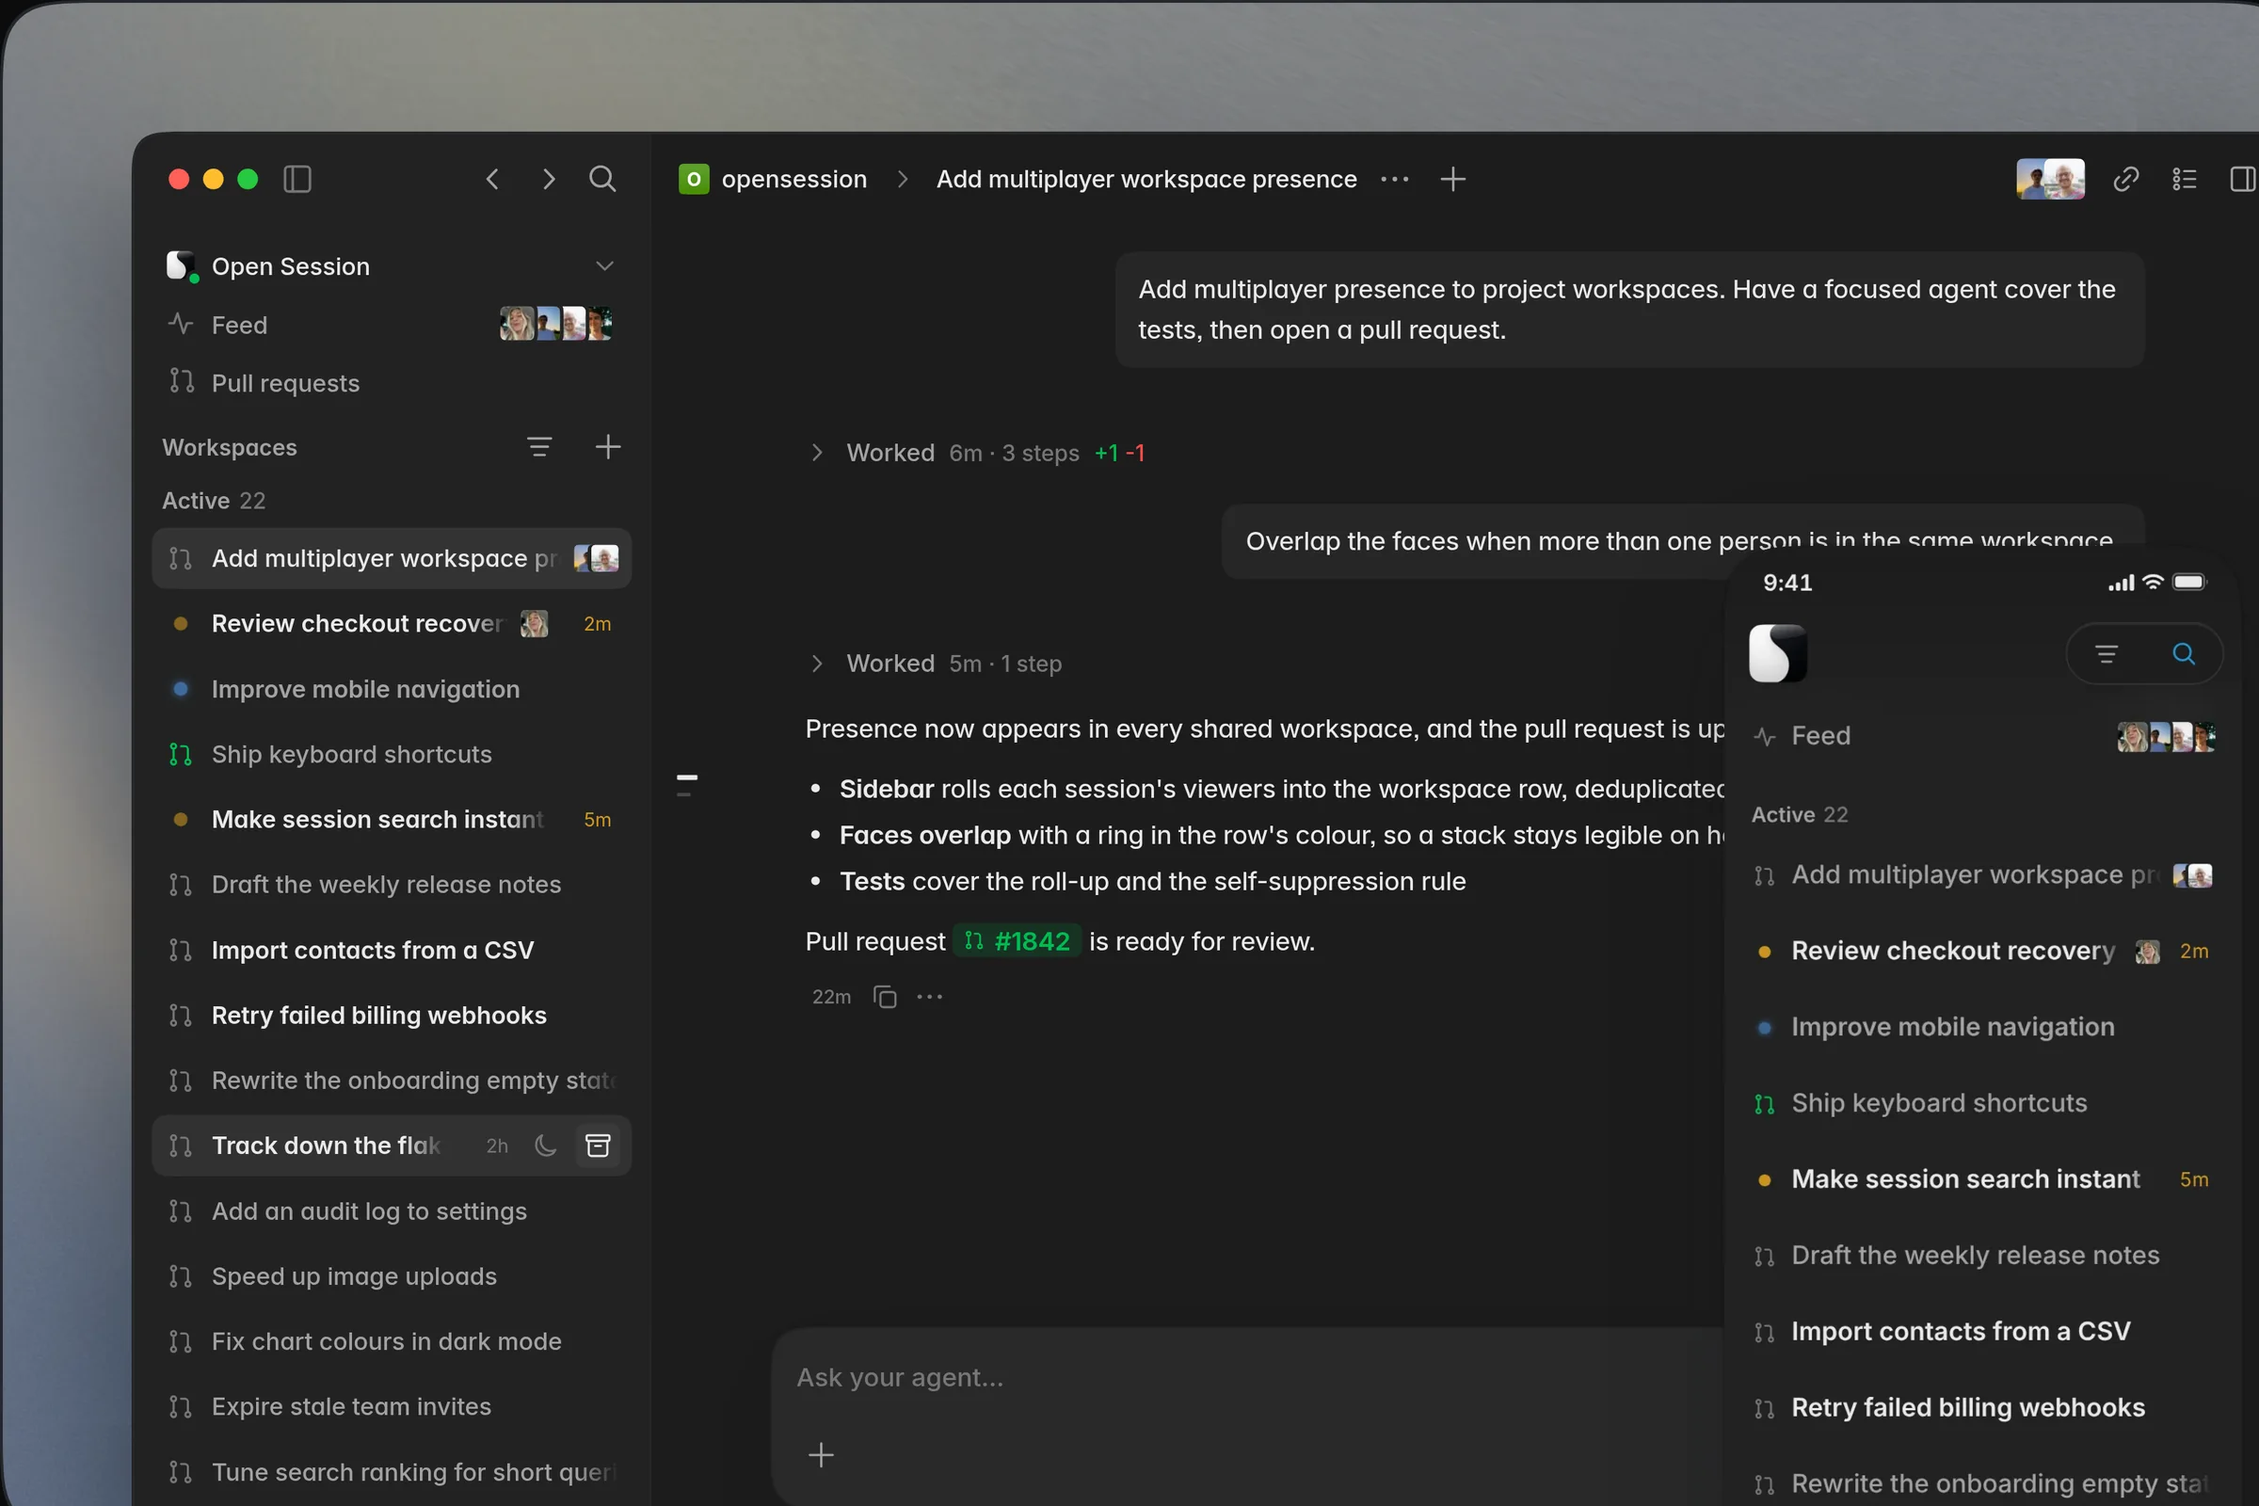
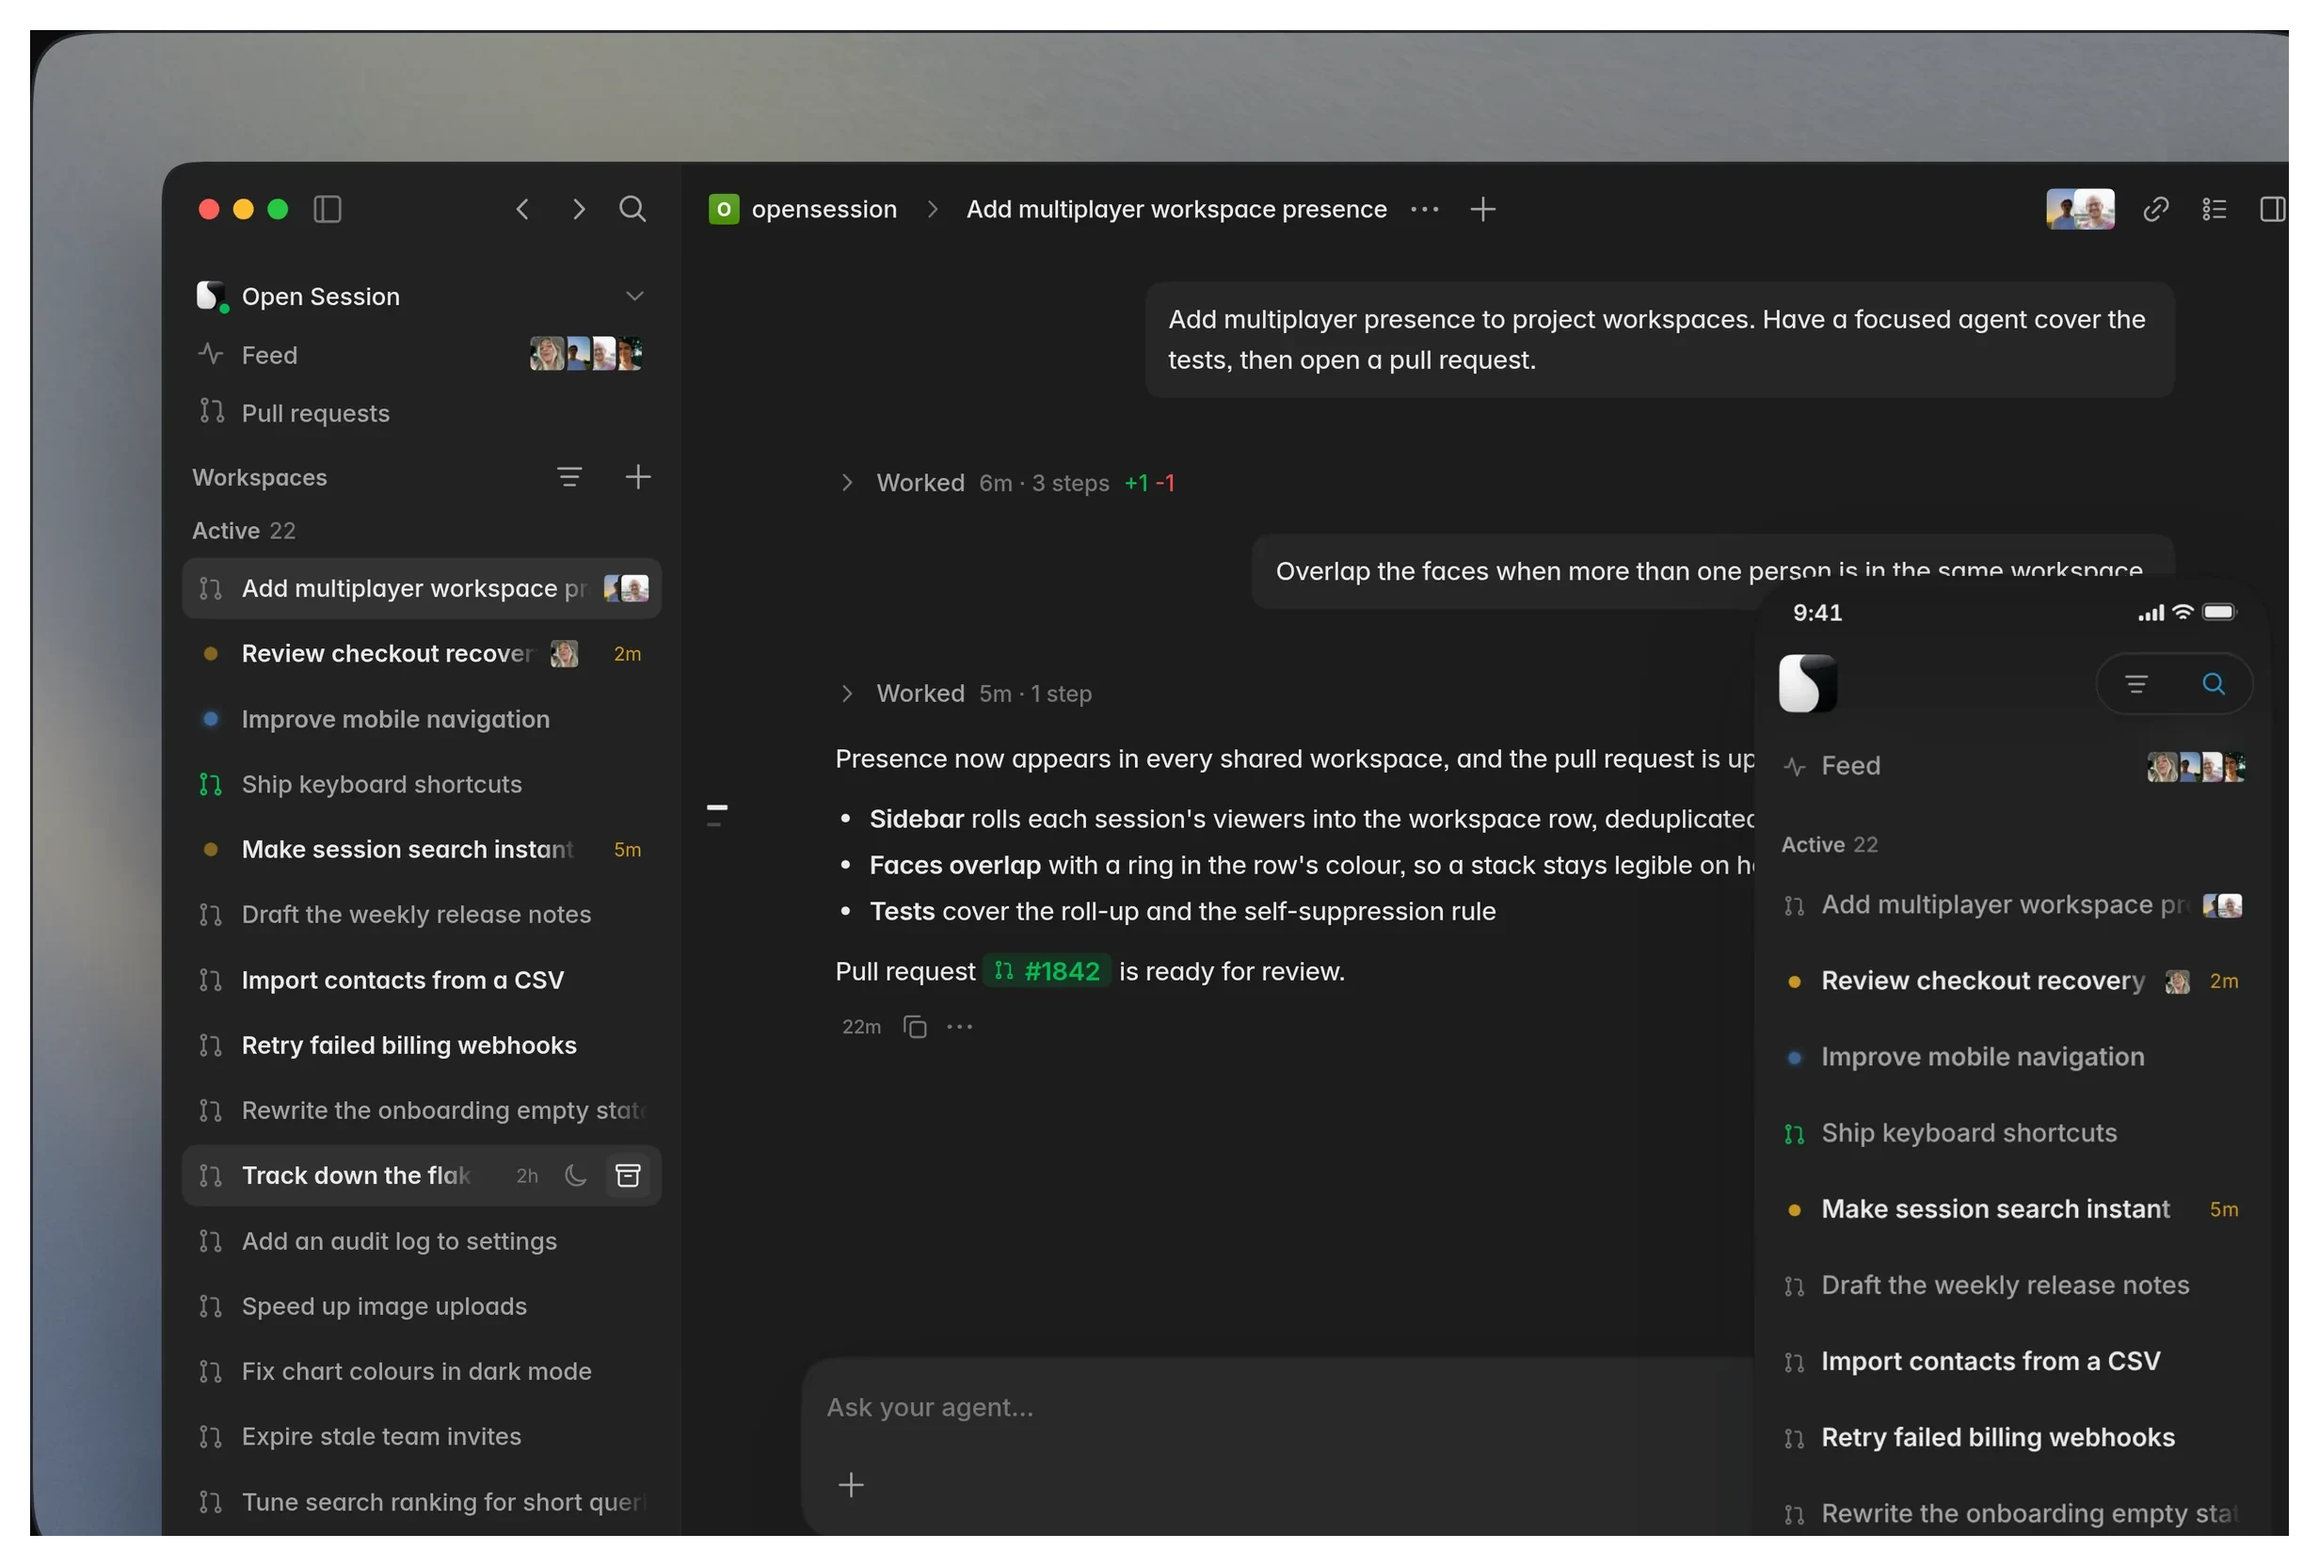
Give the README hero room to breathe

diff --git a/README.md b/README.md
@@ -10,6 +10,8 @@ sandboxes — Docker locally, with pluggable adapters for other providers.
   <img alt="Open Session on desktop and phone: a session that added multiplayer workspace presence and opened a pull request" src="docs/hero-light.webp">
 </picture>
 
+<br>
+
 *More: [pull-request review, diffs, automations, mobile →](docs/screenshots.md)*
 
 ## Quickstart
